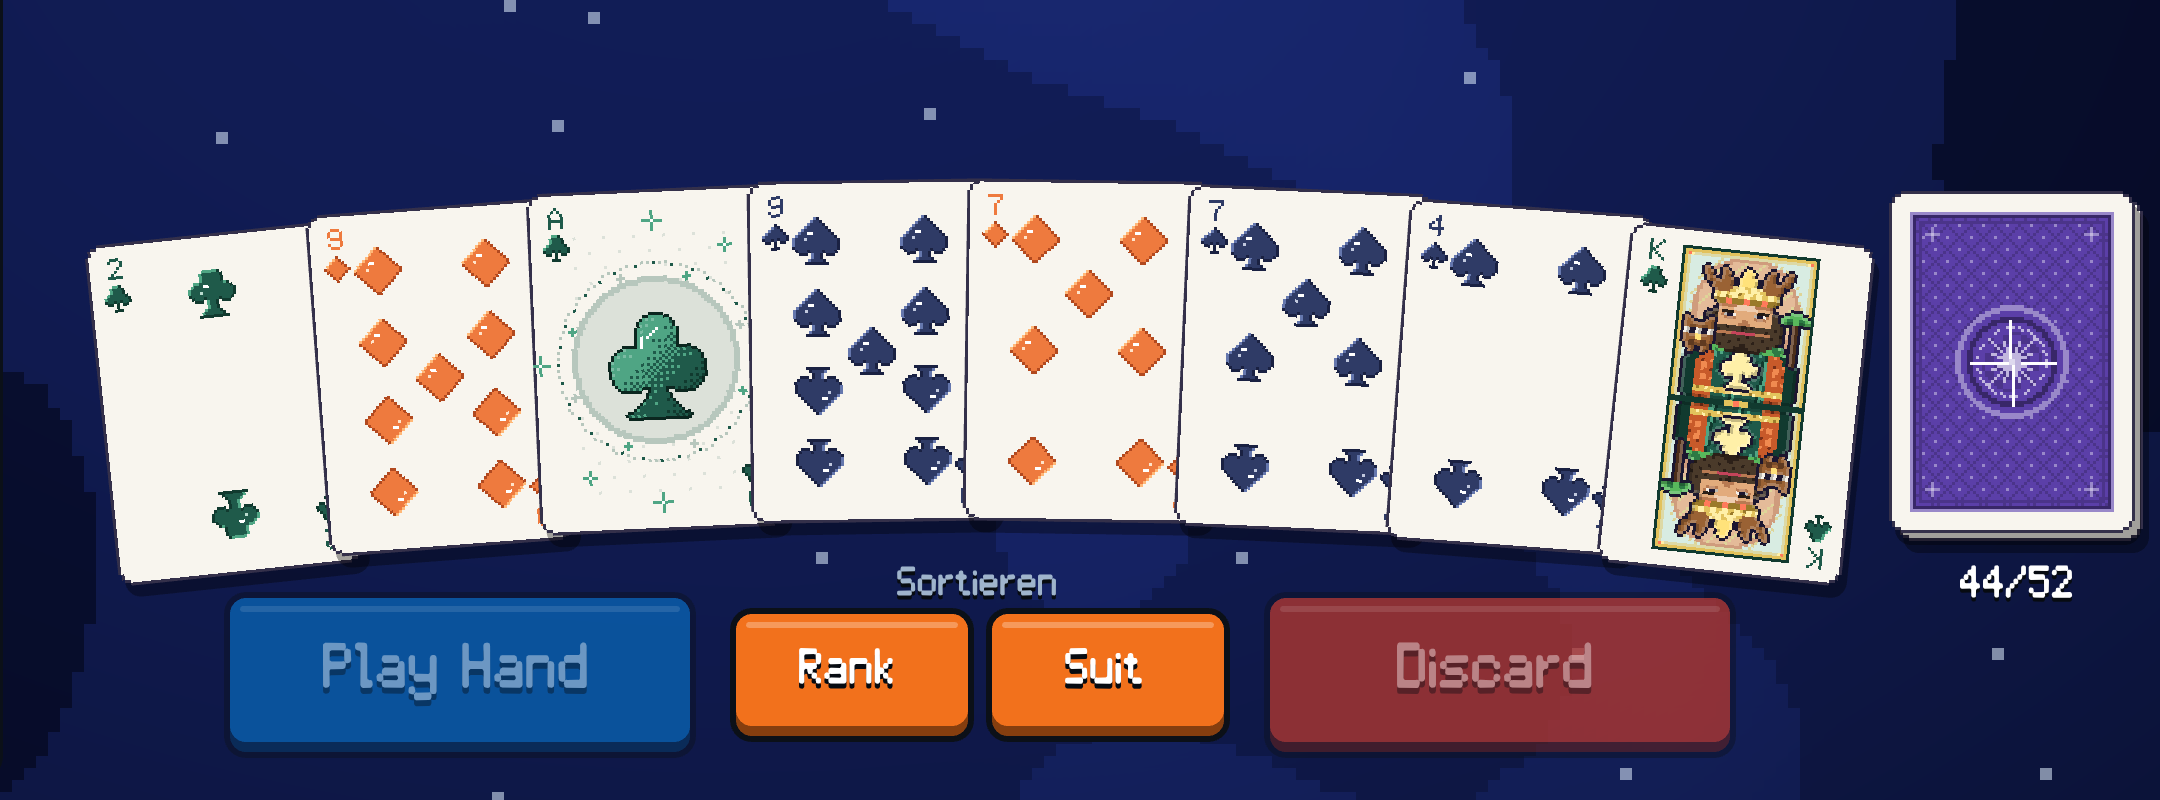
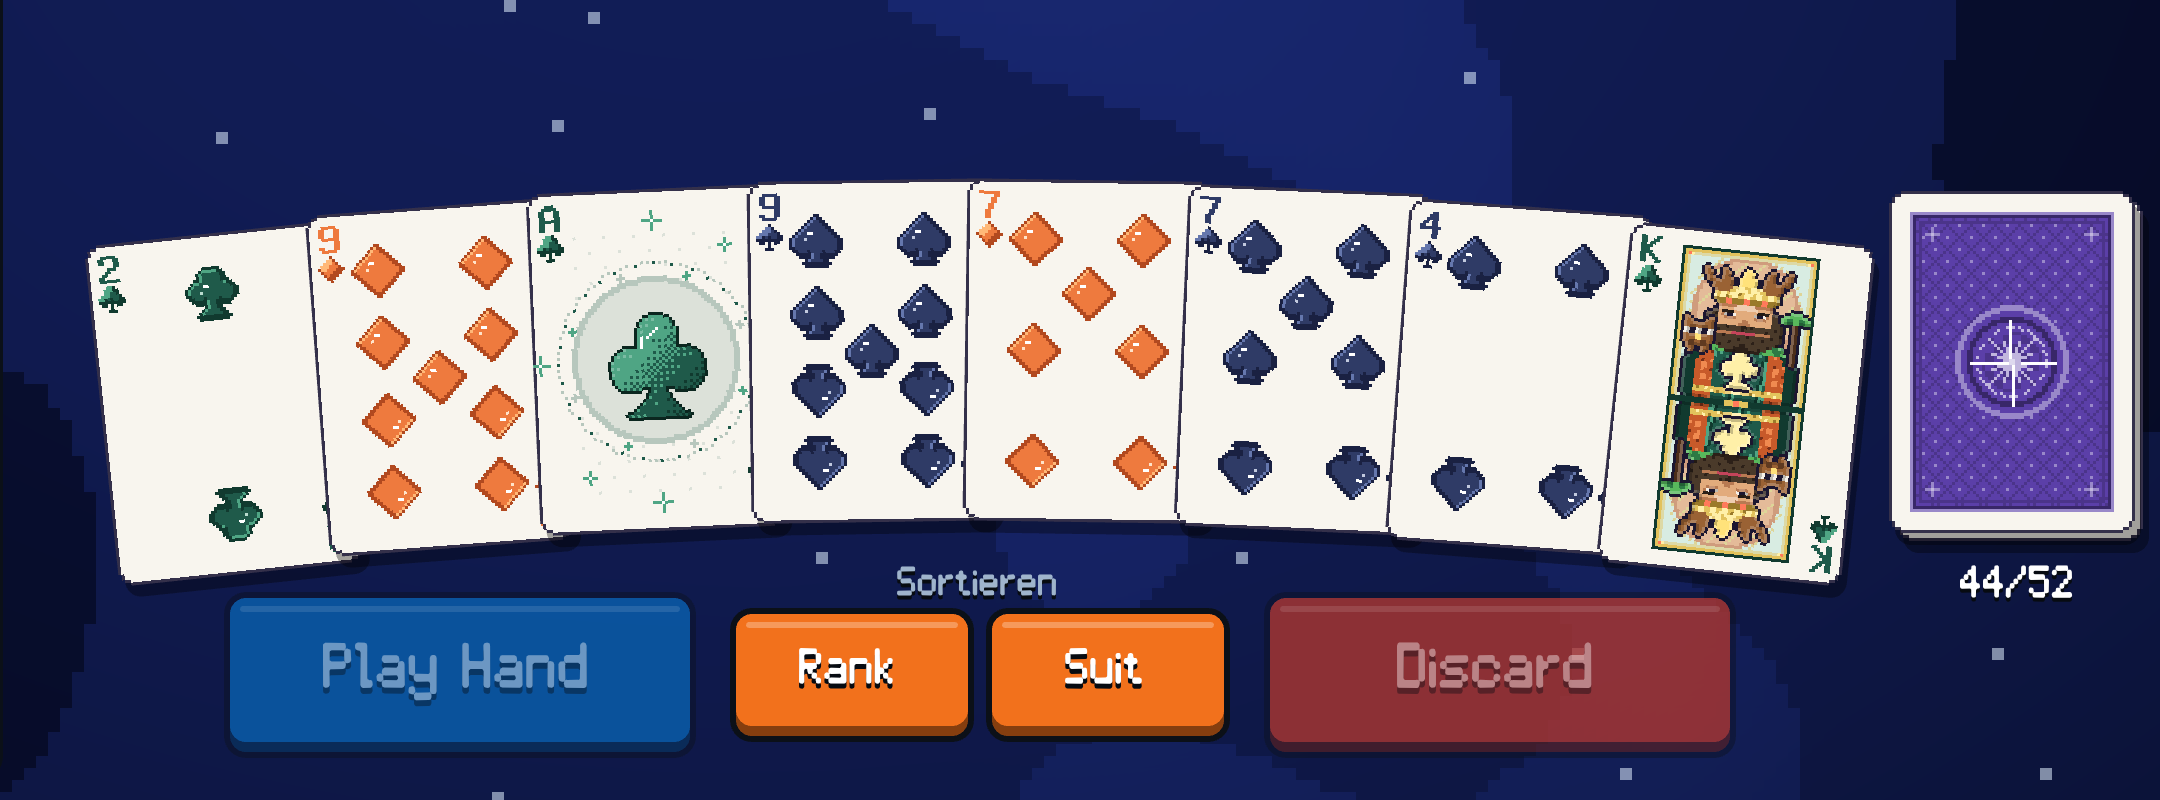
Karten: Index Ziffern mit zwei Pixel dicken Strichen, Pips mit dunkler Kontur
Claude-Session: https://claude.ai/code/session_01QX5Ets3EiAefQXnxEFSiJX

diff --git a/src/data/cardArt/cardGlyphs.ts b/src/data/cardArt/cardGlyphs.ts
@@ -12,23 +12,23 @@ export const CARD_PX_SCALE = 1.5;
 /** Rundung der Kartenecken und Breite des weißen Randes in Pixeln */
 export const CARD_SHAPE = { radius: 6, border: 2 };
 
-/** Index Schrift 5 mal 7. Die 1 der Zehn ist nur 3 Pixel breit, damit "10" in den Rand passt. */
+/** Index Schrift 7 mal 9 mit zwei Pixel dicken Strichen. Die 1 der Zehn ist nur 4 Pixel breit, damit "10" in den Rand passt. */
 export const INDEX_FONT: Record<string, readonly string[]> = {
-  '0': ['.###.', '#...#', '#..##', '#.#.#', '##..#', '#...#', '.###.'],
-  '1': ['..#..', '.##..', '..#..', '..#..', '..#..', '..#..', '.###.'],
-  '1t': ['.#.', '##.', '.#.', '.#.', '.#.', '.#.', '###'],
-  '2': ['.###.', '#...#', '....#', '...#.', '..#..', '.#...', '#####'],
-  '3': ['.###.', '#...#', '....#', '..##.', '....#', '#...#', '.###.'],
-  '4': ['...#.', '..##.', '.#.#.', '#..#.', '#####', '...#.', '...#.'],
-  '5': ['#####', '#....', '####.', '....#', '....#', '#...#', '.###.'],
-  '6': ['.###.', '#...#', '#....', '####.', '#...#', '#...#', '.###.'],
-  '7': ['#####', '....#', '...#.', '..#..', '..#..', '..#..', '..#..'],
-  '8': ['.###.', '#...#', '#...#', '.###.', '#...#', '#...#', '.###.'],
-  '9': ['.###.', '#...#', '#...#', '.####', '....#', '#...#', '.###.'],
-  A: ['..#..', '.#.#.', '#...#', '#...#', '#####', '#...#', '#...#'],
-  J: ['..###', '...#.', '...#.', '...#.', '...#.', '#..#.', '.##..'],
-  Q: ['.###.', '#...#', '#...#', '#...#', '#.#.#', '#..#.', '.##.#'],
-  K: ['#...#', '#..#.', '#.#..', '##...', '#.#..', '#..#.', '#...#'],
+  '0': ['.#####.', '##...##', '##...##', '##...##', '##...##', '##...##', '##...##', '##...##', '.#####.'],
+  '1': ['...##..', '..###..', '.####..', '...##..', '...##..', '...##..', '...##..', '...##..', '.######'],
+  '1t': ['.##.', '###.', '.##.', '.##.', '.##.', '.##.', '.##.', '.##.', '####'],
+  '2': ['.#####.', '##...##', '##...##', '.....##', '...###.', '..##...', '.##....', '##.....', '#######'],
+  '3': ['.#####.', '##...##', '.....##', '..####.', '.....##', '.....##', '##...##', '##...##', '.#####.'],
+  '4': ['....##.', '...###.', '..####.', '.##.##.', '##..##.', '#######', '....##.', '....##.', '....##.'],
+  '5': ['#######', '##.....', '##.....', '######.', '.....##', '.....##', '.....##', '##...##', '.#####.'],
+  '6': ['.#####.', '##...##', '##.....', '######.', '##...##', '##...##', '##...##', '##...##', '.#####.'],
+  '7': ['#######', '.....##', '....##.', '....##.', '...##..', '...##..', '..##...', '..##...', '..##...'],
+  '8': ['.#####.', '##...##', '##...##', '.#####.', '##...##', '##...##', '##...##', '##...##', '.#####.'],
+  '9': ['.#####.', '##...##', '##...##', '##...##', '.######', '.....##', '.....##', '##...##', '.#####.'],
+  A: ['..###..', '.#####.', '##...##', '##...##', '##...##', '#######', '##...##', '##...##', '##...##'],
+  J: ['.######', '....##.', '....##.', '....##.', '....##.', '....##.', '##..##.', '##..##.', '.####..'],
+  Q: ['.#####.', '##...##', '##...##', '##...##', '##...##', '##.#.##', '##.####', '.#####.', '....###'],
+  K: ['##...##', '##..##.', '##.##..', '####...', '###....', '####...', '##.##..', '##..##.', '##...##'],
 };
 
 /** Farbsymbole für Index und Brustzeichen (9 mal 9), halbe Zeilen mit 5 Zeichen (Mitte rechts), werden ungerade gespiegelt */
@@ -60,7 +60,7 @@ export const SUIT_PIP: Record<Suit, readonly string[]> = {
 };
 
 /** Lage des Index oben links: Rang (mittig über dem Farbsymbol, Zehn linksbündig), Farbsymbol 9 mal 9 */
-export const INDEX_POS = { rankX: 7, rankX10: 5, rankY: 5, suitX: 5, suitY: 14, suitSize: 9 };
+export const INDEX_POS = { rankX: 4, rankX10: 3, rankY: 4, suitX: 3, suitY: 14, suitSize: 9 };
 
 /** Pips sind 16 mal 16 Pixel groß. Spalten und Zeilen sind linke und obere Kante in Kartenpixeln. */
 export const PIP_SIZE = 16;

diff --git a/src/ui/cardArt/cardRender.ts b/src/ui/cardArt/cardRender.ts
@@ -175,22 +175,22 @@ function drawIndex(rank: Rank, suit: Suit, s: SuitColors): PixelBuffer {
   const label = indexLabel(rank);
   if (label === '10') {
     b.blit(INDEX_FONT['1t'], INDEX_POS.rankX10, INDEX_POS.rankY, m);
-    b.blit(INDEX_FONT['0'], INDEX_POS.rankX10 + 4, INDEX_POS.rankY, m);
+    b.blit(INDEX_FONT['0'], INDEX_POS.rankX10 + 5, INDEX_POS.rankY, m);
   } else {
     b.blit(INDEX_FONT[label], INDEX_POS.rankX, INDEX_POS.rankY, m);
   }
   const t = suitTones(s);
-  b.blitBuffer(shadedShape(gridMask(mirrorRows(SUIT_SMALL[suit])), t.main, t.light, t.dark), INDEX_POS.suitX, INDEX_POS.suitY);
+  b.blitBuffer(shadedShape(gridMask(mirrorRows(SUIT_SMALL[suit])), t.main, t.light, t.dark, { thick: true }), INDEX_POS.suitX, INDEX_POS.suitY);
   return b;
 }
 
 function drawPips(buf: PixelBuffer, rank: Rank, suit: Suit, s: SuitColors) {
   const t = suitTones(s);
   const mask = gridMask(mirrorEven(SUIT_PIP[suit]));
-  const up = shadedShape(mask, t.main, t.light, t.dark, { glint: [0.3, 0.3] });
+  const up = shadedShape(mask, t.main, t.light, t.dark, { glint: [0.3, 0.3], outline: t.dark });
   const down = up.rotated180();
   for (const [col, row] of PIP_LAYOUT[rank] ?? []) {
-    buf.blitBuffer(row > PIP_ROW.mid ? down : up, PIP_COL[col], row);
+    buf.blitBuffer(row > PIP_ROW.mid ? down : up, PIP_COL[col] - 1, row - 1);
   }
 }
 

diff --git a/src/cardArt.test.ts b/src/cardArt.test.ts
@@ -53,9 +53,9 @@ describe('Pixel Art Karten', () => {
           // Pip Zone zwischen den Indexspalten, Glanzpunkte (weiß) gehören nicht zur Farbe und zählen nicht
           for (let y = 0; y < CARD_PX_H; y++) for (let x = 14; x < CARD_PX_W - 14; x++) { const c = b.get(x, y); if (c !== null && colors.has(c)) n++; }
           const spots = PIP_LAYOUT[rank]?.length ?? 0;
-          // jeder Pip hat 2 mal 'pixels' Pixel (gespiegelte halbe Zeilen), ein paar Pixel pro Pip sind Glanz
+          // jeder Pip hat 2 mal 'pixels' Pixel (gespiegelte halbe Zeilen), ein paar Pixel pro Pip sind Glanz, dazu kommt die dunkle Kontur (höchstens 90 Pixel pro Pip)
           expect(n, `${suit}${rank} ${id}`).toBeGreaterThan(spots * pixels * 2 - spots * 8);
-          expect(n, `${suit}${rank} ${id}`).toBeLessThanOrEqual(spots * pixels * 2);
+          expect(n, `${suit}${rank} ${id}`).toBeLessThanOrEqual(spots * (pixels * 2 + 90));
         }
       }
     }
@@ -217,7 +217,7 @@ describe('Pixel Art Karten', () => {
       expect(SUIT_PIP[suit].length).toBe(PIP_SIZE);
     }
     for (const g of Object.values(INDEX_FONT)) {
-      expect(g.length).toBe(7);
+      expect(g.length).toBe(9);
       g.forEach((r) => expect(r.length).toBe(g[0].length));
     }
   });
